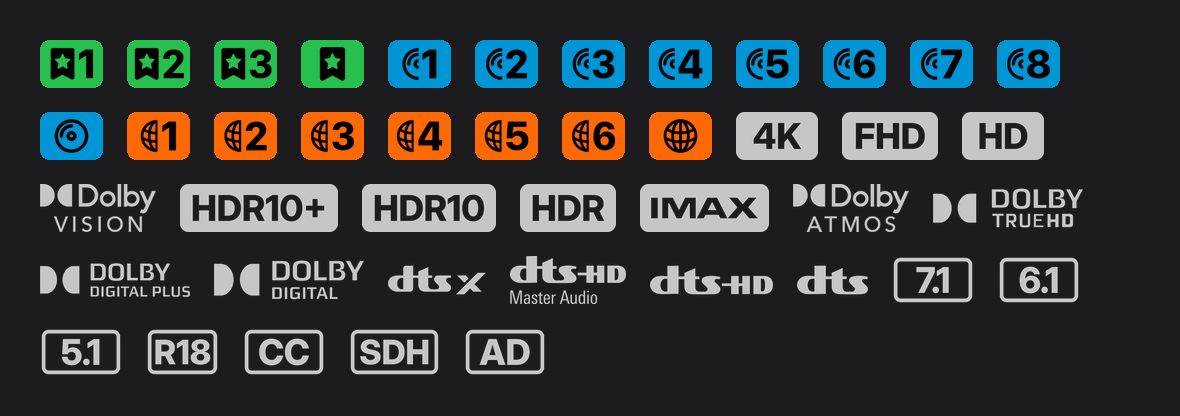
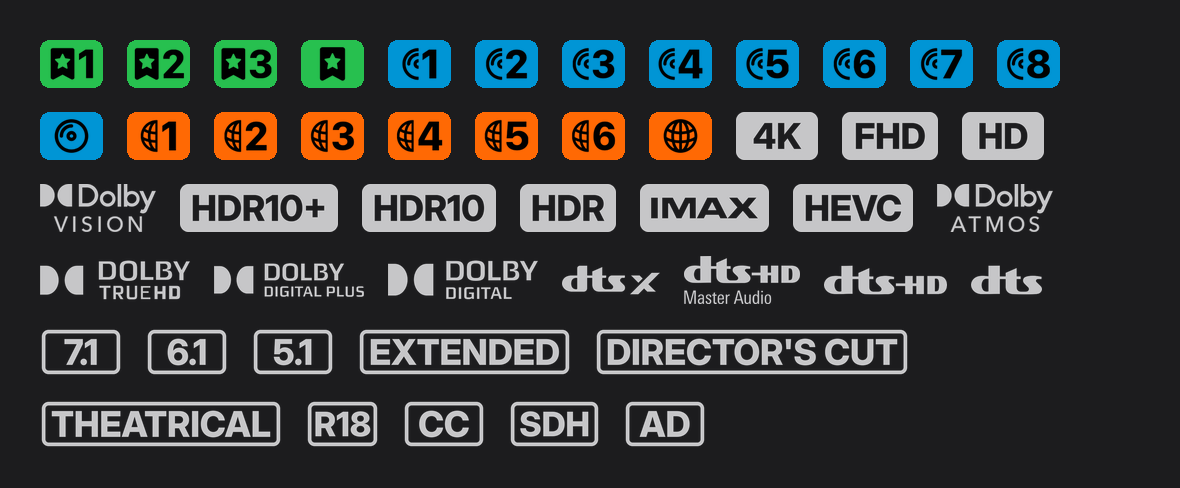
Add HEVC and edition badges
Claude-Session: https://claude.ai/code/session_01LFRZr42XTjHLwSiusSMGez

diff --git a/README.md b/README.md
@@ -1,6 +1,6 @@
 # Fusion badges
 
-Grey media badges with regex filters for Fusion. 43 filters: release type tiers (Remux, Blu-ray, WEB), resolution, Dolby Vision and HDR, IMAX, audio formats, channels, subtitles, rating and audio description.
+Grey media badges with regex filters for Fusion. 47 filters: release type tiers (Remux, Blu-ray, WEB), resolution, Dolby Vision and HDR, IMAX, HEVC, audio formats, channels, editions (Extended, Director's Cut, Theatrical), subtitles, rating and audio description.
 
 ![Preview](preview.png)
 
